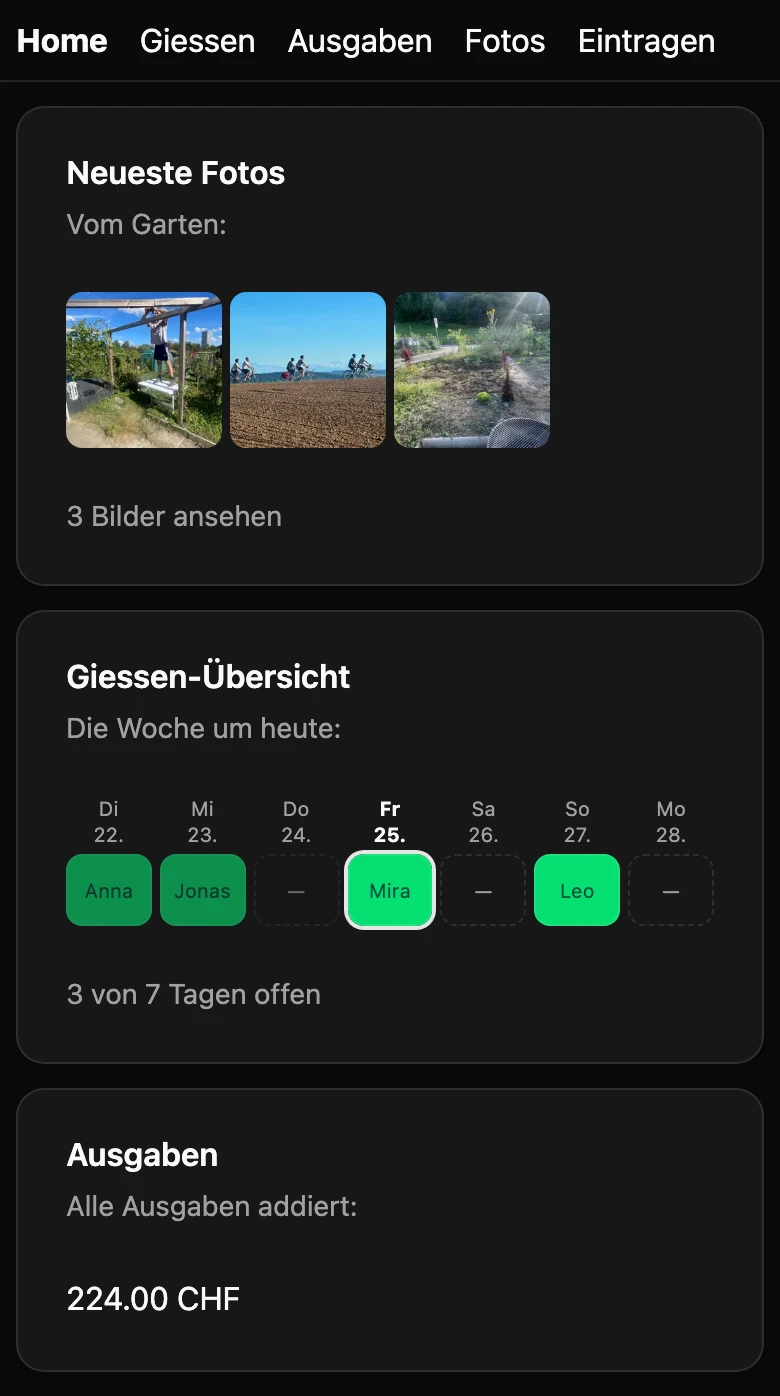
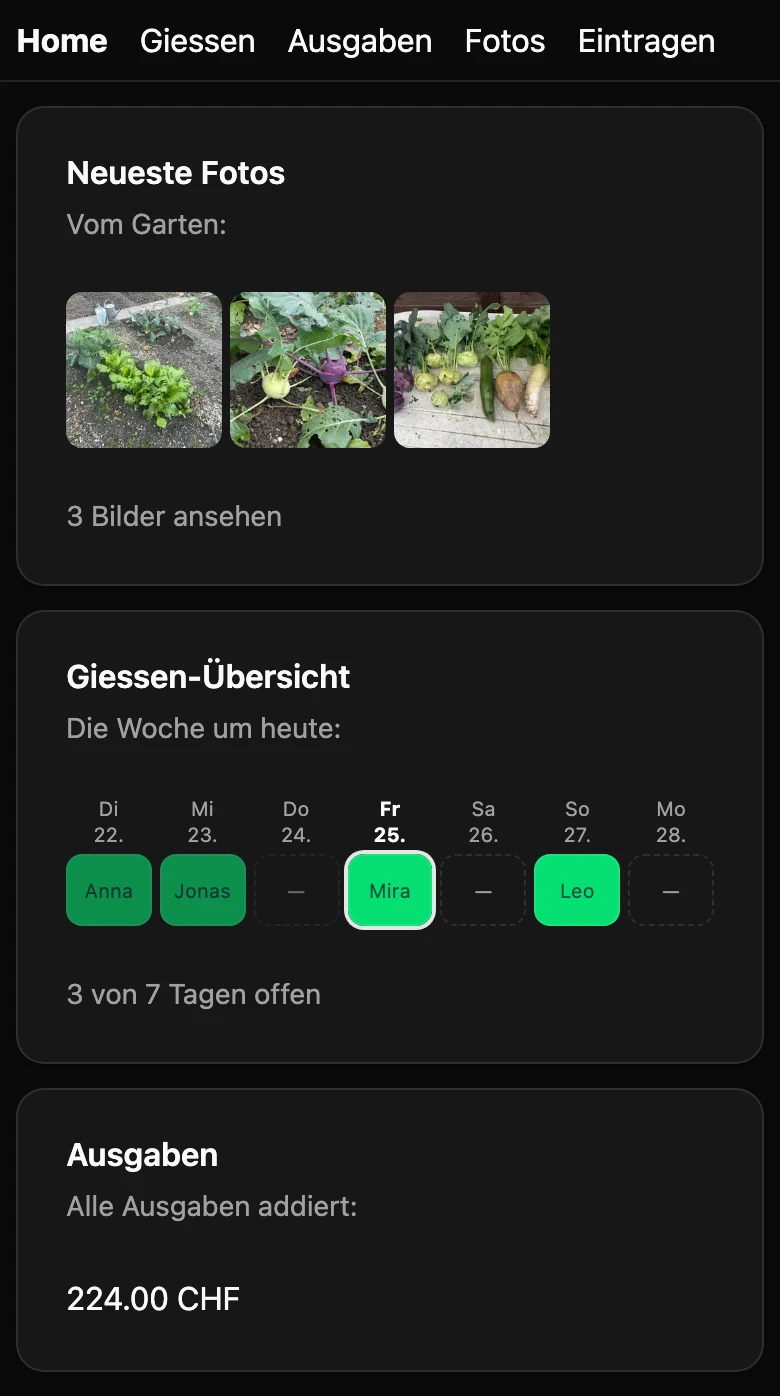
Recapture screenshots with the new garden photos (#8)

Changed region(s): [[0.0615, 0.1848, 0.7077, 0.3388]]

diff --git a/README.md b/README.md
@@ -57,7 +57,7 @@ change instead of quietly going stale.
 
 **Fotos**
 - Upload several pictures at once, by file picker or drag and drop.
-- Optional albums ("Beet 1", "Kompost"), a caption and the date the picture was
+- Optional albums ("Beet 1", "Ernte"), a caption and the date the picture was
   taken. The selected album lives in the URL, so a filtered view can be shared.
 - Grid of thumbnails, tap for the full picture; the newest four also show on the
   dashboard.
